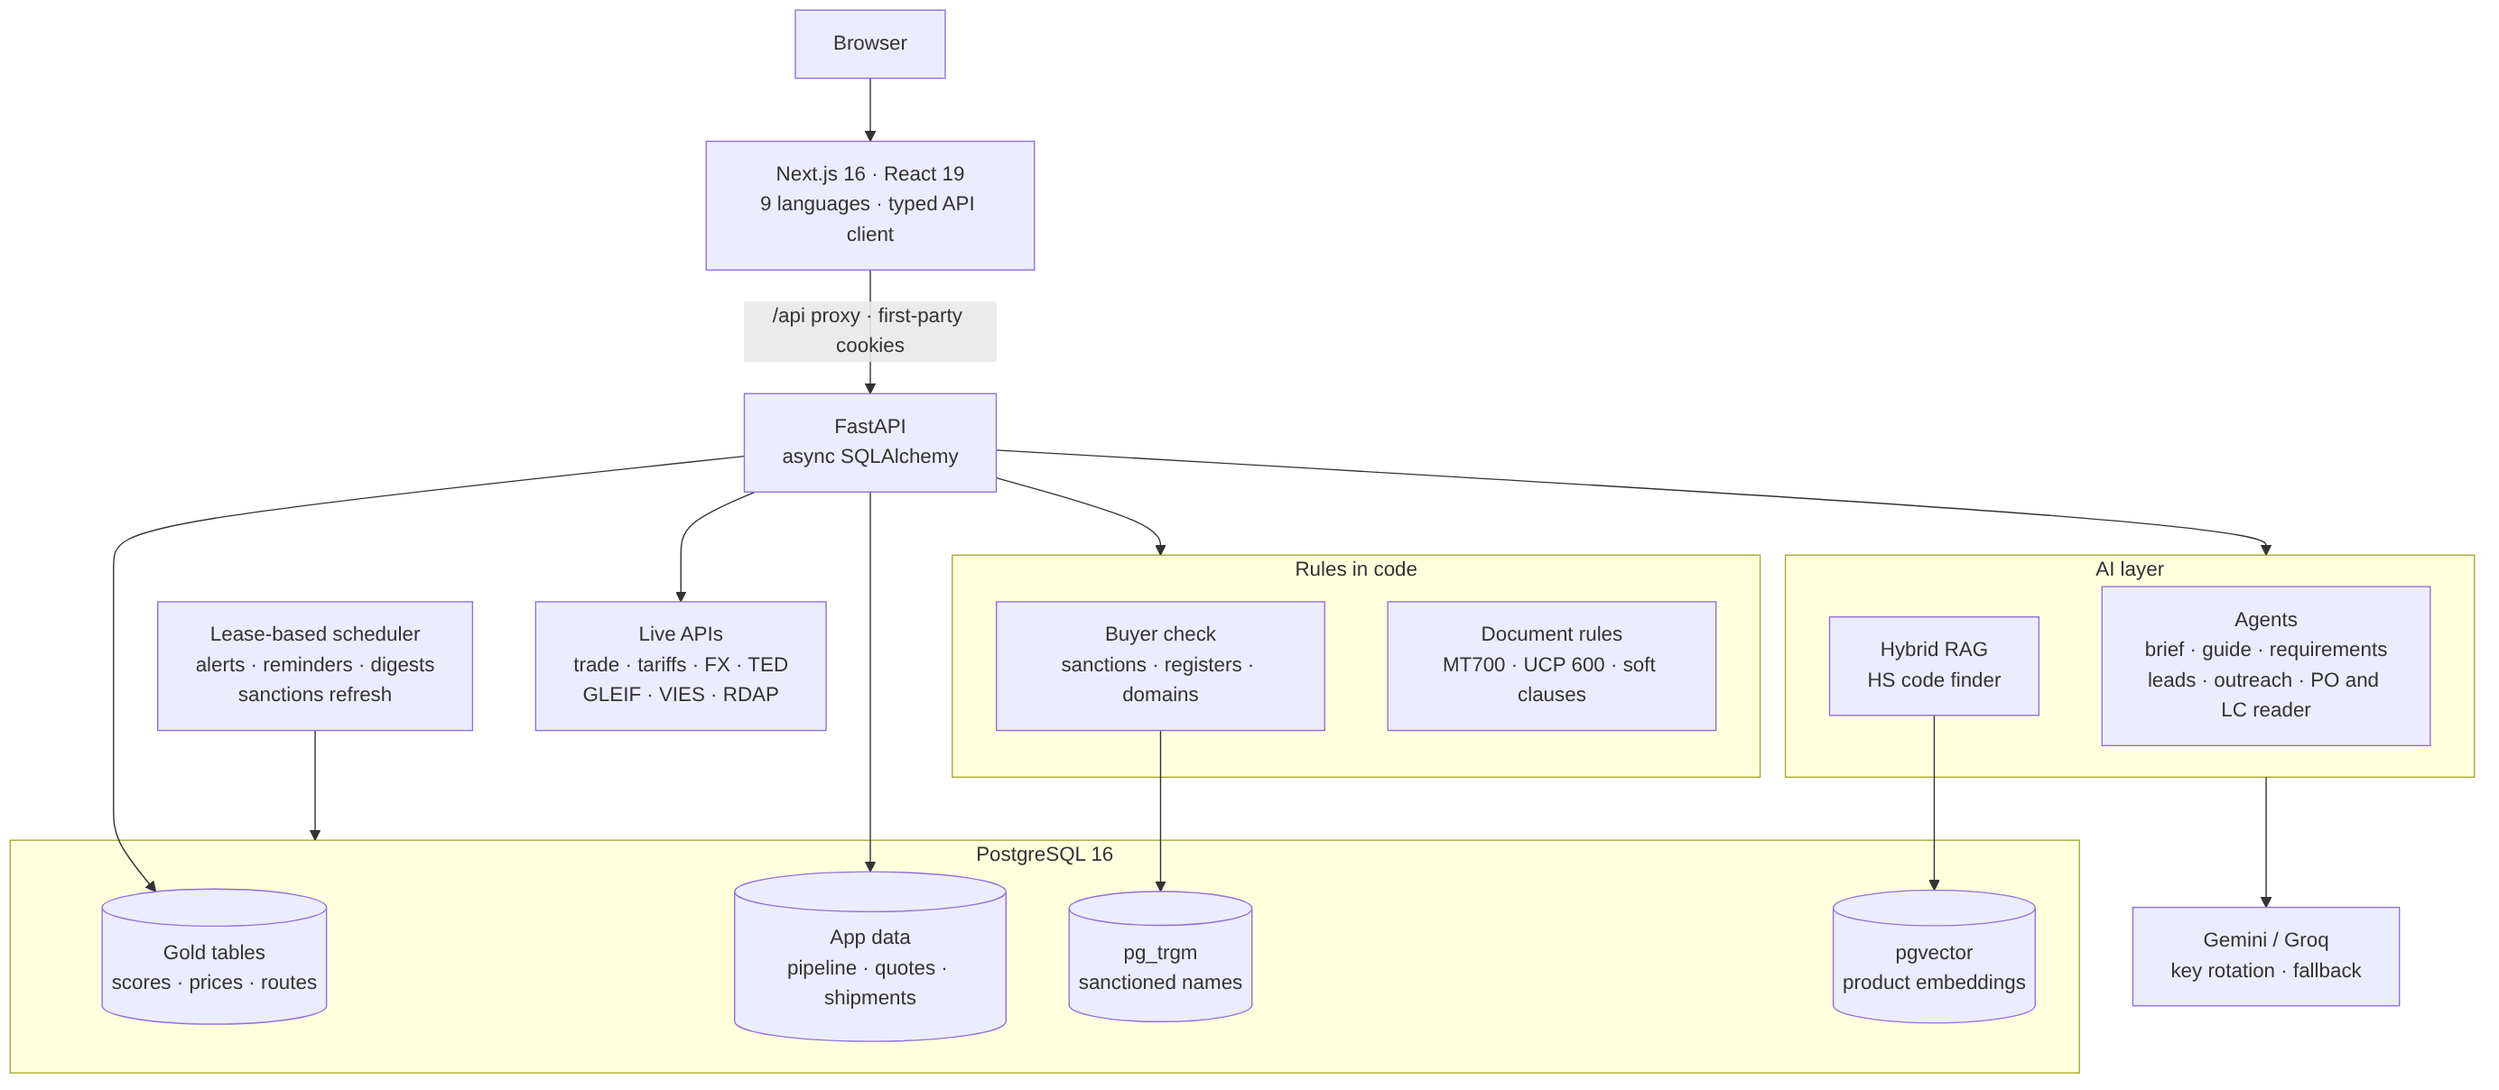
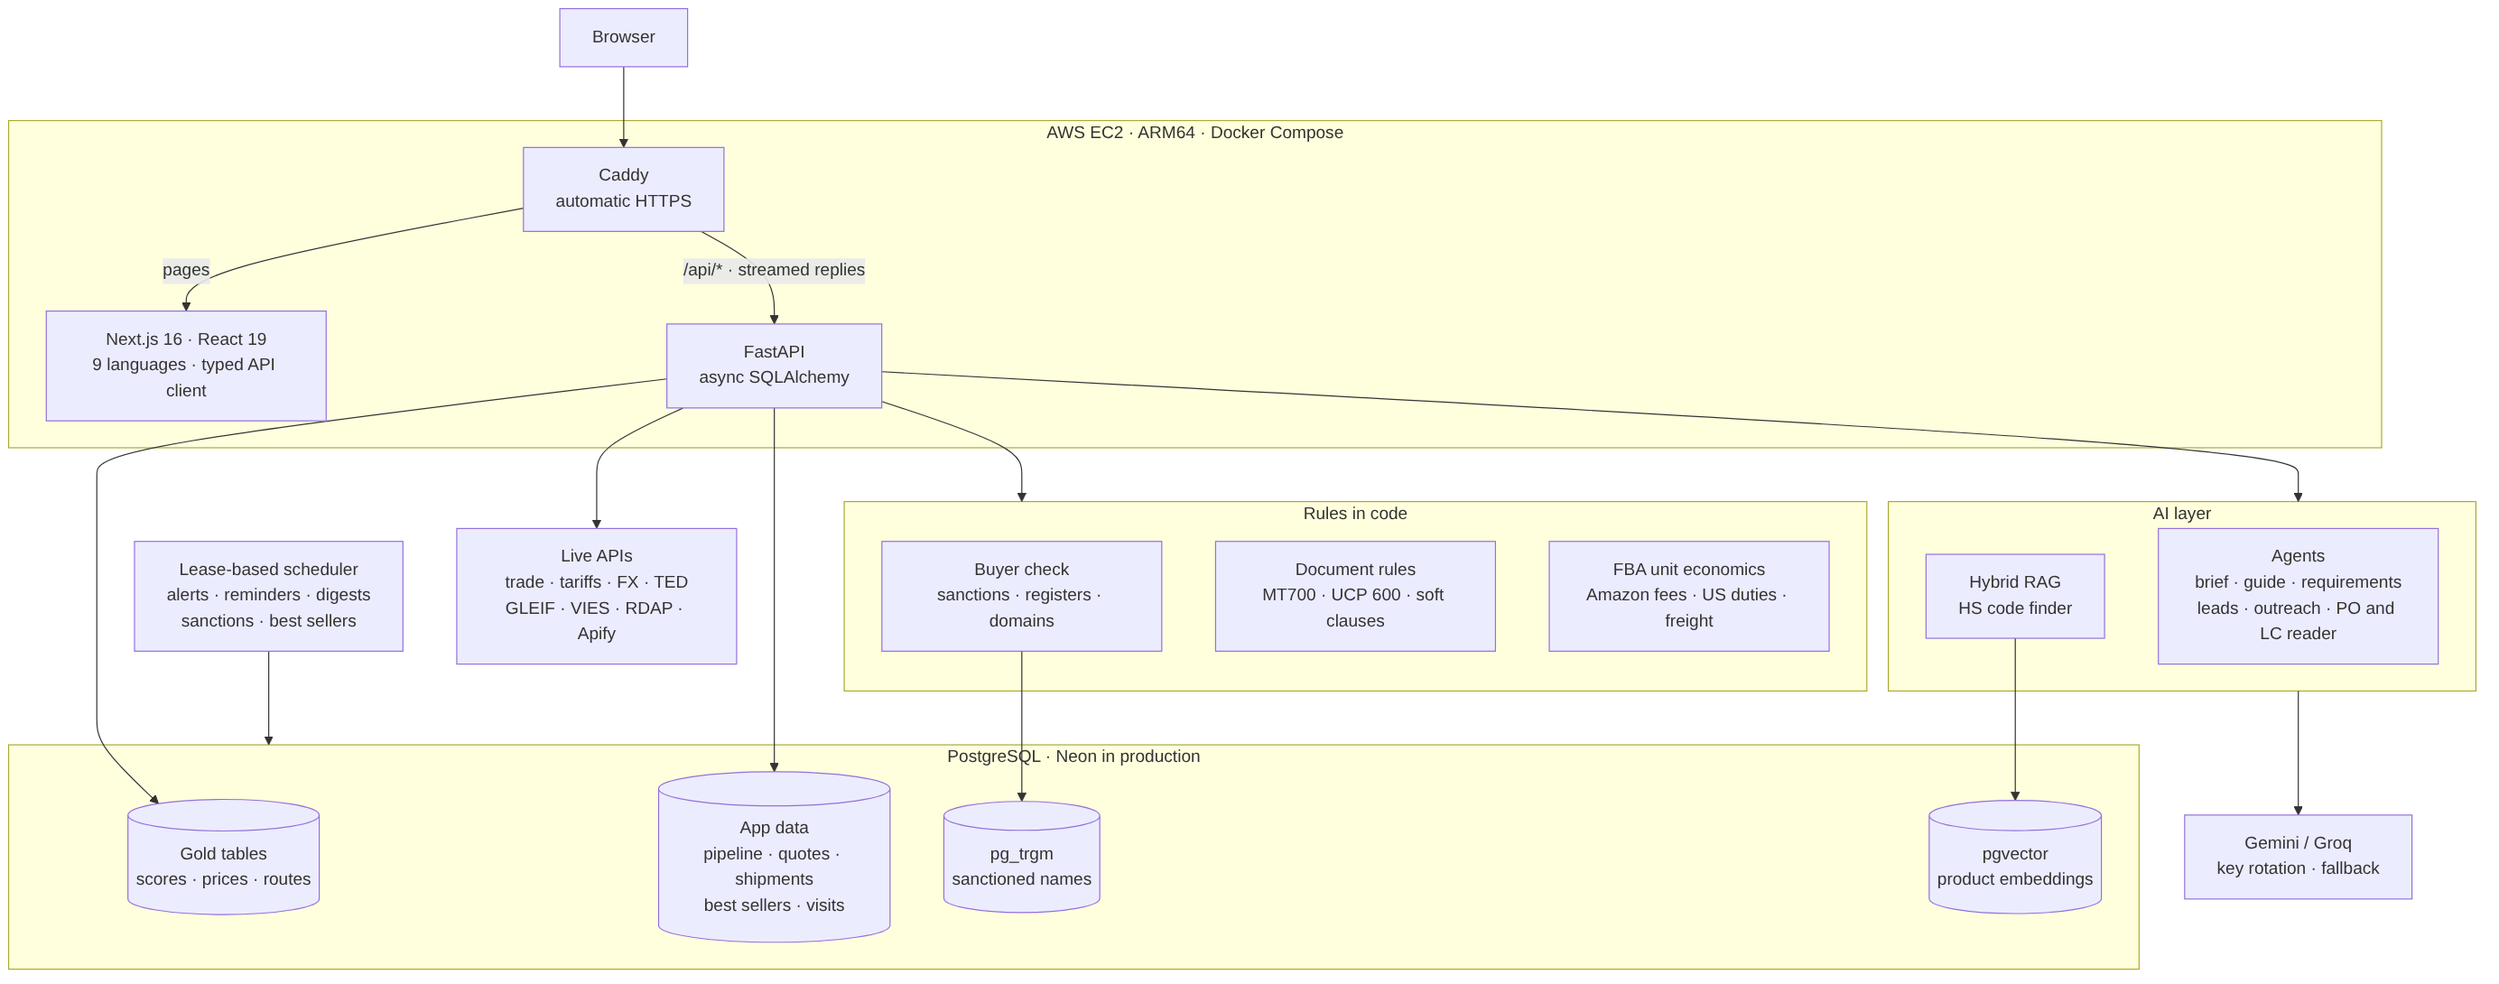
Updating the Readme File

diff --git a/README.md b/README.md
@@ -2,17 +2,21 @@
 
 # Whitespace
 
-### Trade intelligence for exporters, built on a real data platform and grounded AI.
+### Trade intelligence for exporters and Amazon sellers, built on a real data platform and grounded AI.
 
 Whitespace processes **a million-plus rows of global customs data** into ranked export opportunities, then uses **source-checked AI agents** to turn each opportunity into a deal: the right HS code, the rules to meet, the buyers to call, whether they are safe to deal with, the landed cost, the quote and the shipping documents.
+
+A second mode serves **small Amazon sellers**: product ideas from Amazon's weekly best-seller lists and rising US imports, and a profit calculator built on Amazon's 2026 fees, US tariffs and modelled freight.
 
 ![Next.js](https://img.shields.io/badge/Next.js_16-000000?logo=nextdotjs&logoColor=white)
 ![FastAPI](https://img.shields.io/badge/FastAPI-009688?logo=fastapi&logoColor=white)
 ![LangGraph](https://img.shields.io/badge/LangGraph-1C3C3C?logo=langchain&logoColor=white)
 ![Polars](https://img.shields.io/badge/Polars-CD792C?logo=polars&logoColor=white)
 ![DuckDB](https://img.shields.io/badge/DuckDB-FFF000?logo=duckdb&logoColor=black)
-![PostgreSQL](https://img.shields.io/badge/PostgreSQL_16-4169E1?logo=postgresql&logoColor=white)
+![PostgreSQL](https://img.shields.io/badge/PostgreSQL-4169E1?logo=postgresql&logoColor=white)
 ![pgvector](https://img.shields.io/badge/pgvector-hybrid_RAG-336791?logo=postgresql&logoColor=white)
+![Caddy](https://img.shields.io/badge/Caddy-1F88C0?logo=caddy&logoColor=white)
+![AWS](https://img.shields.io/badge/AWS_EC2-ARM64-FF9900?logo=amazonwebservices&logoColor=white)
 
 <br/>
 
@@ -20,9 +24,9 @@ Whitespace processes **a million-plus rows of global customs data** into ranked 
 
 <br/>
 
-| **1M+** | **5,384** | **24** | **4,776** | **87K+** | **9** | **400+** |
-|:---:|:---:|:---:|:---:|:---:|:---:|:---:|
-| supplier–market rows | HS6 products | exporting countries | sea routes | sanctioned names screened | languages | tests |
+| **1M+** | **5,384** | **24** | **4,796** | **87K+** | **97.5%** | **9** | **490+** |
+|:---:|:---:|:---:|:---:|:---:|:---:|:---:|:---:|
+| supplier–market rows | HS6 products | exporting countries | sea routes | sanctioned names screened | HS-code accuracy | languages | tests |
 
 </div>
 
@@ -57,10 +61,11 @@ A batch pipeline on a **medallion architecture** turns raw customs data into ana
 | **Bronze** | Versioned BACI releases kept exactly as published (≈350 MB) | Python, httpx |
 | **Silver** | Typed, deduplicated, country codes harmonised, columnar (≈340 MB) | Polars, Parquet |
 | **Gold** | Scores, supplier shares, unit prices and routes, compacted to ≈47 MB | Polars, DuckDB |
-| **Enrich** | Every product embedded for meaning search; 87K+ sanctioned names normalised (legal forms stripped) and trigram-indexed for fuzzy matching | Gemini embeddings, pgvector, pg_trgm |
-| **Serve** | Bulk-loaded tables, plus live sources cached with lifetimes that match how often each source updates | PostgreSQL 16, pg_trgm |
+| **Enrich** | All 5,384 products embedded for meaning search; 87K+ sanctioned names normalised (legal forms stripped) and trigram-indexed for fuzzy matching | Gemini embeddings, pgvector, pg_trgm |
+| **Reference** | US additional duties parsed from the official HTS chapter 99 PDF, and 24 months of US consumer imports (568 codes), shipped as small versioned JSON files instead of tables, so every update is a reviewable git diff | pypdf, Polars |
+| **Serve** | Bulk-loaded tables, plus live sources cached with lifetimes that match how often each source updates | PostgreSQL (Neon in production), pg_trgm |
 
-**Batch and live, combined.** Annual bilateral trade comes from the batch pipeline. Monthly imports (Eurostat Comext and US Census), tariffs (WITS-TRAINS and HMRC), the Brent oil price (FRED), exchange rates and EU tenders (TED) are fetched live, normalised to one shape and cached. The four official sanctions lists are refreshed by a daily job that skips unchanged files and swaps each list in atomically, so a check never sees a half-loaded list. Product embeddings are incremental: only new or changed text is sent, so re-runs are free and resumable under the embedding API's daily quota. The gold-table schemas live in a **shared package** that both the pipeline and the API import, so the two can never disagree about the data shape.
+**Batch and live, combined.** Annual bilateral trade comes from the batch pipeline. Monthly imports (Eurostat Comext and US Census), tariffs (WITS-TRAINS and HMRC), the Brent oil price (FRED), exchange rates and EU tenders (TED) are fetched live, normalised to one shape and cached. The four official sanctions lists are refreshed by a daily job that skips unchanged files and swaps each list in atomically, so a check never sees a half-loaded list. Product embeddings are incremental: only new or changed text is sent, so re-runs are free and resumable under the embedding API's daily quota. Amazon's best-seller lists are captured weekly through Apify, with a cost cap on each run that keeps a month inside the free plan. The gold-table schemas live in a **shared package** that both the pipeline and the API import, so the two can never disagree about the data shape.
 
 ### The opportunity model
 
@@ -77,7 +82,7 @@ For exporter **E**, product **p** and market **M**, over four years of trade:
 
 A market qualifies only if it imports **≥ $10M** of p a year and E has a **revealed comparative advantage ≥ 1**. The score is the mean percentile rank of the four signals. Including size stops one large shipment into a tiny market from outranking a large, steady one. Each score maps to a plain-language verdict, such as *Go for it*, *Grow your lead* or *Hard to break in*.
 
-**Freight is modelled, not guessed.** Real sea-route distances between 4,776 port pairs, container rates indexed to Brent crude, an adjustment for backhaul on each lane, full-container and shared-container (LCL) pricing, and low / typical / high ranges.
+**Freight is modelled, not guessed.** Real sea-route distances between 4,796 port pairs (including sourcing lanes from East Asia to the US, UK, Germany and Canada), container rates indexed to Brent crude, an adjustment for backhaul on each lane, full-container and shared-container (LCL) pricing, and low / typical / high ranges.
 
 <br/>
 
@@ -121,9 +126,21 @@ Exporters often don't know their product's customs code, and every other feature
 </picture>
 
 - **Three kinds of match.** Everyday names catch "hoodie", full-text search catches customs wording, and embeddings catch meaning when no words overlap.
-- **Rank fusion, not score tuning.** Reciprocal rank fusion merges the lists without calibrating scores across retrievers.
+- **Weighted rank fusion, tuned on evidence.** Reciprocal rank fusion merges the lists without calibrating scores across retrievers. Each retriever's weight was chosen on the eval set, which lifted first-place accuracy from 70% to 87.5% before the model step.
 - **Keeps working when a service is down.** Without the embedding API, names and words still run. Without the model, the closest candidates are shown and labelled as such.
-- **Measured, not assumed.** `make eval-hs` scores both retrieval (is the right code in the top candidates?) and the model's final pick against a 40-case labelled eval set, so every change to the finder can be checked before it ships. **Target: ≥ 92.5% first-pick accuracy and ≥ 95% top-3 recall.**
+- **Also tags Amazon best sellers.** Each new best seller gets a likely code from the same finder; a code the model isn't fairly sure of is left out, because no code beats a wrong one. 92% of the current list is tagged.
+- **Measured, not assumed.** `make eval-hs` scores every stage against a 40-case labelled eval set, so each change to the finder is checked before it ships. Latest run, on the full catalogue of 5,384 products:
+
+| Stage | Right code first | Right code in top 3 |
+|---|:---:|:---:|
+| Customs words only (full-text search) | 37.5% | 55% |
+| Words + everyday names | 50% | 75% |
+| Meaning only (embeddings) | 87.5% | 95% |
+| All three, unweighted fusion | 70% | 90% |
+| All three, weighted fusion | 87.5% | 95% |
+| **Model's final pick from the 15-candidate shortlist** | **97.5%** | **100%** |
+
+The right code was in the 15-candidate shortlist in every case, so the model always had the answer to choose from.
 
 **Production LLM engineering:**
 - **Two model tiers.** A small model extracts and a main model writes, so each step uses the cheapest model that can do it.
@@ -148,6 +165,37 @@ Before money moves, two checks answer *is this buyer real?* and *is this documen
 | **Buyer check** | Screens a company against four sanctions lists, legal-entity and VAT registers, website age, email domain and the wording of their emails | Strong and possible matches are graded separately; generic words such as "trading" never match alone; it says what it can't tell you, such as whether they will pay |
 | **PO and LC checker** | Reads a purchase order or letter of credit and compares every term with your quote | Flags soft clauses that let the buyer block payment, dates that leave too little time to ship (UCP 600), and a sanctioned issuing bank; nothing uploaded is stored |
 
+
+<br/>
+
+## 🛒 Amazon FBA mode
+
+For makers and small importers who want to sell on Amazon US with Fulfilment by Amazon (FBA). It answers two questions with named sources: *what could I sell?* and *would it make money?* Both pages are also public, with no sign-up.
+
+<picture>
+  <source media="(prefers-color-scheme: dark)" srcset="docs/diagrams/amazon-fba-dark.png">
+  <img src="docs/diagrams/amazon-fba.png" alt="Amazon FBA mode: weekly best sellers tagged with HS codes and a starting supplier, plus rising US imports, feed product ideas that open a prefilled profit calculator" width="100%"/>
+</picture>
+
+<table>
+<tr>
+<td width="50%"><img src="docs/screenshots/product-ideas.png" alt="Product ideas: Amazon best sellers with customs codes and usual supplier countries, beside hot categories in US imports"/></td>
+<td width="50%"><img src="docs/screenshots/fba-calculator.png" alt="FBA profit calculator for towels from Pakistan: $6.05 profit per unit, 20% margin, payback in 4.8 months"/></td>
+</tr>
+<tr>
+<td align="center"><sub>Product ideas: best sellers with a customs code and a usual source country</sub></td>
+<td align="center"><sub>Profit calculator: towels from Pakistan, every cost from supplier to customer</sub></td>
+</tr>
+</table>
+
+| Cost | Where it comes from |
+|---|---|
+| **Amazon fees** | Amazon's 2026 referral, fulfilment and storage fees, including the 3.5% fuel and logistics surcharge; dated in code and reviewed at each Amazon fee change |
+| **US duties** | Normal duty plus Section 301 country duties and China's list duties, parsed from the official tariff schedule; exemptions applied |
+| **Import fees** | US Customs processing fee (formal and informal entries) and harbour maintenance fee |
+| **Freight** | The sea-freight model above, priced on the order's real volume as a low / typical / high range |
+
+Inputs only the seller knows (ad spend, returns, monthly sales) are labelled as assumptions, and anything not modelled, such as Section 232 and anti-dumping duties, is named on the page. A tariff that covers only part of a product code is still applied, because understating a seller's cost is the mistake that loses them money.
 
 <br/>
 
@@ -176,7 +224,7 @@ Before money moves, two checks answer *is this buyer real?* and *is this documen
 
 **Validate**
 - HS code finder from a plain description or a product photo
-- Import duties by partner country, including preferential rates such as GSP+
+- Import duties by partner country, including preferential rates such as GSP+ and US Section 301 duties
 - AI market-requirements checklist that users tick off as they prepare
 
 **Cost**
@@ -196,10 +244,15 @@ Before money moves, two checks answer *is this buyer real?* and *is this documen
 - PO and letter-of-credit checker that compares the buyer's terms with your quote
 - Commercial invoice, packing list, statement on origin and REX-threshold warnings
 
+**Sell on Amazon**
+- Product ideas: weekly Amazon best sellers in 15 categories and rising US imports, each with a likely HS code and a starting supplier
+- FBA profit calculator with Amazon's 2026 fees, US duties, import fees and freight ranges, free to use without an account
+
 **Platform**
 - Email and password (Argon2) or Google sign-in, password reset, HTTP-only cookie sessions
 - 9 languages, with right-to-left layouts for Urdu and Arabic
-- First-party analytics and an admin console
+- Admin console: sign-ups, active users, visitor countries, pages and engaged time, account disabling, and test or demo accounts kept out of the numbers
+- Cookie-free, first-party analytics: no third-party trackers, and no IP addresses stored
 
 </details>
 
@@ -209,21 +262,24 @@ Before money moves, two checks answer *is this buyer real?* and *is this documen
 
 <picture>
   <source media="(prefers-color-scheme: dark)" srcset="docs/diagrams/architecture-dark.png">
-  <img src="docs/diagrams/architecture.png" alt="Architecture: Next.js to FastAPI, AI layer, rules in code, live APIs, PostgreSQL with pgvector and pg_trgm, and a scheduler" width="100%"/>
+  <img src="docs/diagrams/architecture.png" alt="Architecture: Caddy on AWS EC2 routing to Next.js and FastAPI, AI layer, rules in code, live APIs, PostgreSQL with pgvector and pg_trgm, and a scheduler" width="100%"/>
 </picture>
 
 - **One typed contract, end to end.** The frontend's API client is generated from the backend's OpenAPI spec, so changing an endpoint breaks the frontend build, not production.
 - **Correct under concurrency.** Quote and invoice numbers are gapless and allocated under row locks. Pipeline cards use version-checked writes. Scheduled jobs hold database leases. A model is never called while a row is locked.
-- **Secure by default.** Argon2 password hashing, secure HTTP-only cookies, rate limits that trust only known proxy hops, HMAC-signed links, hardened response headers, uploaded documents checked in memory and never stored, and an API that is never exposed directly.
-- **Built to run on free tiers.** A single ARM64 production image of about 140 MB that idles at about 150 MB of RAM, configured only by environment variables, so it is portable to any host.
+- **Secure by default.** Argon2 password hashing, secure HTTP-only cookies, rate limits that trust only known proxy hops, HMAC-signed links, hardened response headers, uploaded documents checked in memory and never stored, admins who see counts but never message text, and an API reachable only through the HTTPS proxy.
+- **Production on one small server.** Live on a single AWS t4g.micro (ARM64, 1 GB RAM): Caddy for automatic HTTPS, plus the API and web containers, with Neon serverless Postgres. The whole stack uses about 550 MB of RAM.
+- **One-command deploys.** `make deploy-ec2` builds ARM64 images, uploads only the ones that changed, runs database migrations, then restarts. Configuration is environment variables only, so the same images run on any host.
+- **Privacy-respecting analytics.** Visitors are counted with a hash that changes every day, with no cookies, and only the country is kept from an IP address.
 
 | | |
 |---|---|
 | **Frontend** | Next.js 16 · React 19 · TypeScript · Tailwind CSS 4 · TanStack Query |
 | **Backend** | FastAPI · SQLAlchemy 2 (async) · Alembic · Pydantic v2 |
-| **Data** | Polars · DuckDB · Parquet · PostgreSQL 16 (pgvector, pg_trgm, full-text search) |
+| **Data** | Polars · DuckDB · Parquet · pypdf · PostgreSQL (pgvector, pg_trgm, full-text search) · Apify |
 | **AI** | LangGraph · LangChain · Gemini (chat, vision, embeddings) · Groq · Ollama · Tavily · hybrid RAG |
-| **Quality** | pytest · eval sets · Ruff · mypy · ESLint · GitHub Actions · Docker |
+| **Infra** | Docker Compose · Caddy · AWS EC2 (ARM64) · Neon Postgres |
+| **Quality** | pytest · eval sets · Ruff · mypy · ESLint · GitHub Actions |
 
 <br/>
 
@@ -256,10 +312,14 @@ make check-keys  # test every configured API key without printing it
 make sanctions   # load the OFAC, UN, EU and UK sanctions lists (also refreshed daily)
 make embed       # embed products for HS-code search (only new or changed ones)
 make eval-hs     # score the HS-code finder (ARGS=--pick to include the AI step)
+make us-tariffs  # rebuild US additional duties from the official tariff schedule (monthly)
+make us-imports  # rebuild 24 months of US consumer imports from the Census Bureau (monthly)
+make geoip       # download the free DB-IP country database for visitor countries
+make deploy-ec2  # build ARM64 images and deploy to the EC2 server
 make help        # every command
 ```
 
-**Optional keys** switch on their features: Groq (LLM fallback), Tavily (leads and requirements), US Census (US monthly data), Google OAuth and SMTP. `.env.example` lists every key.
+**Optional keys** switch on their features: Groq (LLM fallback), Tavily (leads and requirements), US Census (US monthly data), Apify (Amazon best sellers), Google OAuth and SMTP. `.env.example` lists every key.
 
 **Repository layout**
 
@@ -267,8 +327,8 @@ make help        # every command
 frontend/   Next.js app: product UI, public pages, i18n
 backend/    FastAPI: API, AI agents, integrations, jobs, migrations, evals
 pipeline/   Data pipeline: bronze → silver → gold → load
-shared/     Gold-table schemas shared by the pipeline and the API
-deploy/     Production container build
+shared/     Gold-table schemas and reference data (US tariffs, US imports, Amazon categories)
+deploy/     Production deploy: EC2 with Caddy, API and web (plus a single-container fallback)
 docs/       Architecture decisions, diagrams (Mermaid sources + renders) and screenshots
 ```
 
@@ -277,5 +337,5 @@ docs/       Architecture decisions, diagrams (Mermaid sources + renders) and scr
 ---
 
 <div align="center">
-<sub>Built entirely on public data. Scores describe where a country competes well. They are not a guarantee for any single firm.</sub>
+<sub>Built entirely on public data. Scores describe where a country competes well. They are not a guarantee for any single firm. Fee and tariff figures are dated in the code and reviewed when they change.</sub>
 </div>
